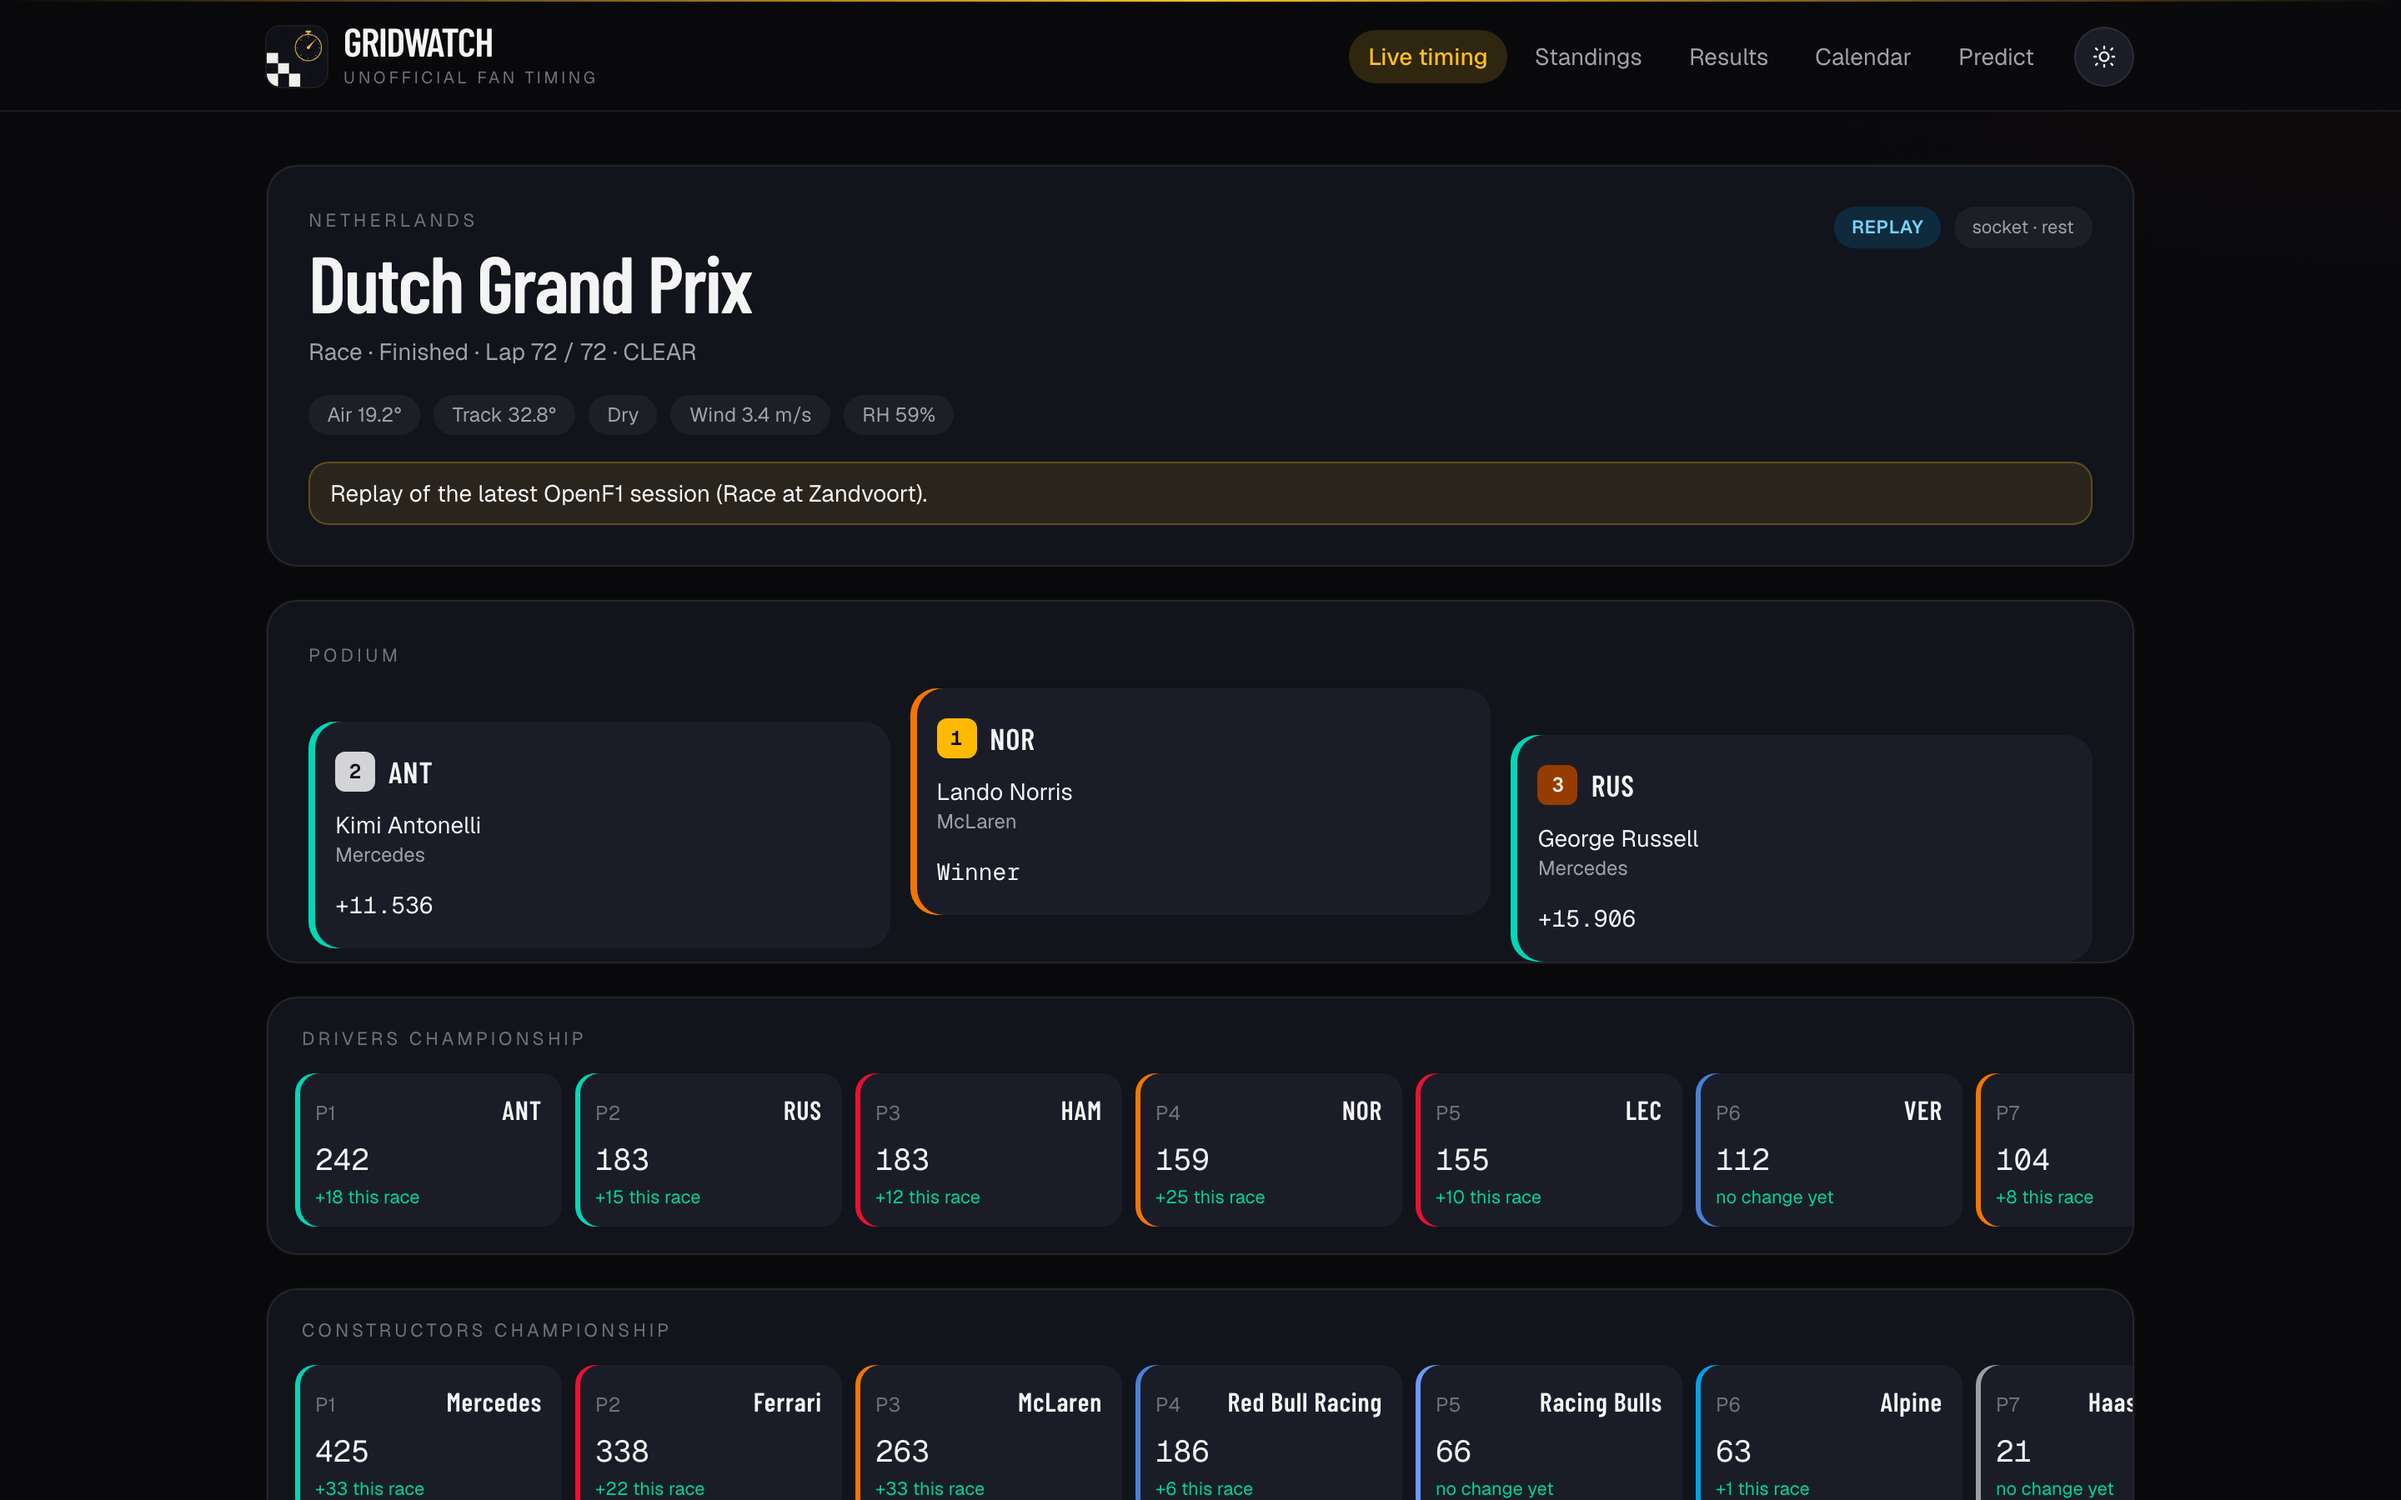
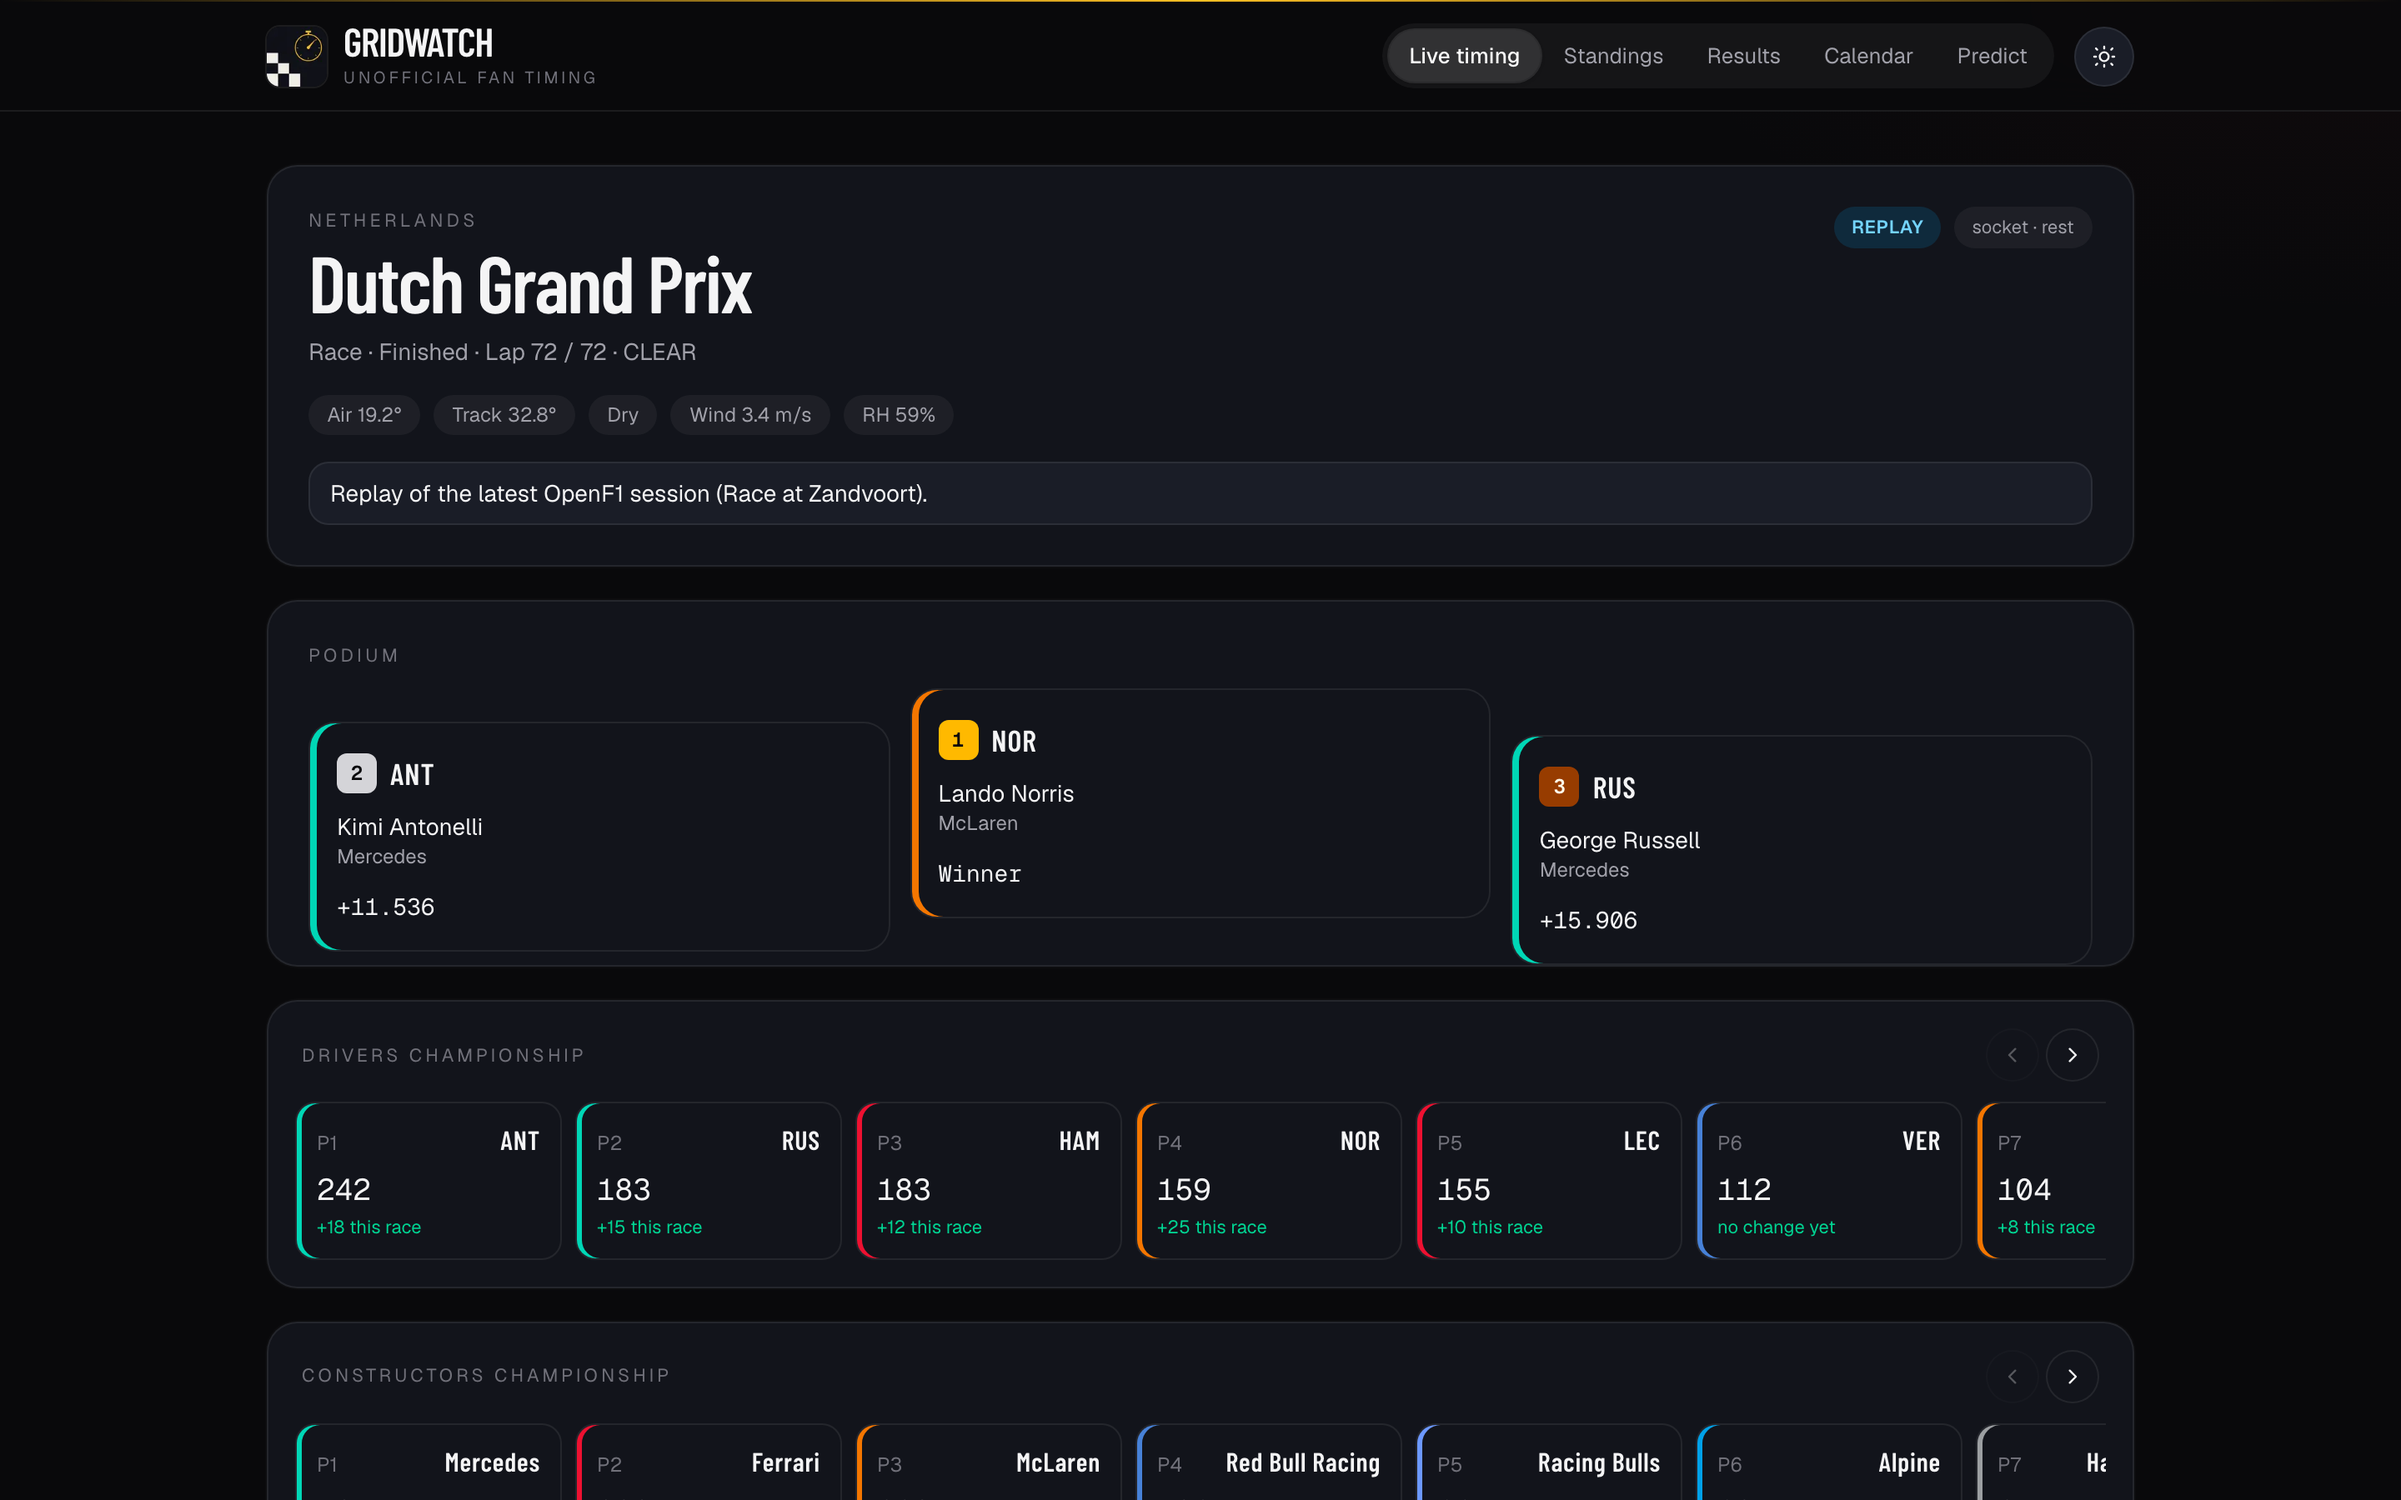
Modernize page tabs and make championship rows scroll with arrows.

diff --git a/src/components/TimingBoard.tsx b/src/components/TimingBoard.tsx
@@ -1,6 +1,6 @@
 "use client";
 
-import { useEffect, useMemo, useState } from "react";
+import { useCallback, useEffect, useMemo, useRef, useState } from "react";
 import {
   formatGap,
   formatLapTime,
@@ -427,16 +427,66 @@ function ChampionshipStrip({
     color: string;
   }[];
 }) {
+  const scroller = useRef<HTMLDivElement>(null);
+  const [canBack, setCanBack] = useState(false);
+  const [canFwd, setCanFwd] = useState(false);
+
+  const update = useCallback(() => {
+    const el = scroller.current;
+    if (!el) return;
+    setCanBack(el.scrollLeft > 4);
+    setCanFwd(el.scrollLeft + el.clientWidth < el.scrollWidth - 4);
+  }, []);
+
+  useEffect(() => {
+    const el = scroller.current;
+    if (!el) return;
+    update();
+    el.addEventListener("scroll", update, { passive: true });
+    const ro = new ResizeObserver(update);
+    ro.observe(el);
+    return () => {
+      el.removeEventListener("scroll", update);
+      ro.disconnect();
+    };
+  }, [update, items.length]);
+
+  const move = (dir: -1 | 1) => {
+    const el = scroller.current;
+    if (!el) return;
+    el.scrollBy({
+      left: dir * Math.round(el.clientWidth * 0.75),
+      behavior: "smooth",
+    });
+  };
+
   return (
-    <section className="panel overflow-x-auto p-4">
-      <p className="mb-3 px-1 text-[11px] uppercase tracking-[0.18em] text-subtle">
-        {title}
-      </p>
-      <div className="flex min-w-max gap-2">
-        {items.slice(0, 8).map((row) => (
+    <section className="panel p-4">
+      <div className="mb-3 flex items-center justify-between gap-3 px-1">
+        <p className="text-[11px] uppercase tracking-[0.18em] text-subtle">
+          {title}
+        </p>
+        <div className="flex shrink-0 gap-1">
+          <ScrollArrow
+            dir="back"
+            disabled={!canBack}
+            onClick={() => move(-1)}
+          />
+          <ScrollArrow
+            dir="fwd"
+            disabled={!canFwd}
+            onClick={() => move(1)}
+          />
+        </div>
+      </div>
+      <div
+        ref={scroller}
+        className="flex gap-2 overflow-x-auto scroll-smooth [-ms-overflow-style:none] [scrollbar-width:none] [&::-webkit-scrollbar]:hidden"
+      >
+        {items.map((row) => (
           <div
             key={row.key}
-            className="w-40 rounded-xl border border-border bg-surface px-3 py-2.5"
+            className="w-40 shrink-0 rounded-xl border border-border bg-surface px-3 py-2.5"
             style={{ boxShadow: `inset 3px 0 0 ${teamSwatch(row.color)}` }}
           >
             <div className="flex items-baseline justify-between gap-2">
@@ -455,5 +505,33 @@ function ChampionshipStrip({
         ))}
       </div>
     </section>
+  );
+}
+
+function ScrollArrow({
+  dir,
+  disabled,
+  onClick,
+}: {
+  dir: "back" | "fwd";
+  disabled: boolean;
+  onClick: () => void;
+}) {
+  return (
+    <button
+      type="button"
+      onClick={onClick}
+      disabled={disabled}
+      aria-label={dir === "back" ? "Scroll back" : "Scroll forward"}
+      className="inline-flex h-8 w-8 items-center justify-center rounded-full border border-border bg-surface text-foreground transition hover:border-accent/40 hover:text-accent disabled:pointer-events-none disabled:opacity-30"
+    >
+      <svg viewBox="0 0 24 24" aria-hidden className="h-4 w-4" fill="none" stroke="currentColor" strokeWidth="1.8">
+        {dir === "back" ? (
+          <path strokeLinecap="round" strokeLinejoin="round" d="M14.5 6.5 9 12l5.5 5.5" />
+        ) : (
+          <path strokeLinecap="round" strokeLinejoin="round" d="M9.5 6.5 15 12l-5.5 5.5" />
+        )}
+      </svg>
+    </button>
   );
 }

diff --git a/src/components/SiteHeader.tsx b/src/components/SiteHeader.tsx
@@ -23,23 +23,27 @@ export function SiteHeader() {
         <Link href="/" className="min-w-0">
           <BrandLockup priority />
         </Link>
-        <nav className="order-last flex w-full min-w-0 items-center gap-1 overflow-x-auto text-sm sm:order-none sm:ml-auto sm:w-auto [-ms-overflow-style:none] [scrollbar-width:none] [&::-webkit-scrollbar]:hidden">
-          {links.map((link) => {
-            const active =
-              pathname === link.href ||
-              (link.href !== "/" && pathname.startsWith(link.href));
-            return (
-              <Link
-                key={link.href}
-                href={link.href}
-                className={`shrink-0 rounded-full px-3 py-1.5 transition ${
-                  active ? "nav-active" : "text-muted hover:bg-chip hover:text-foreground"
-                }`}
-              >
-                {link.label}
-              </Link>
-            );
-          })}
+        <nav className="order-last w-full min-w-0 sm:order-none sm:ml-auto sm:w-auto">
+          <div className="flex min-w-0 items-center gap-0.5 overflow-x-auto rounded-full bg-chip p-1 [-ms-overflow-style:none] [scrollbar-width:none] [&::-webkit-scrollbar]:hidden">
+            {links.map((link) => {
+              const active =
+                pathname === link.href ||
+                (link.href !== "/" && pathname.startsWith(link.href));
+              return (
+                <Link
+                  key={link.href}
+                  href={link.href}
+                  className={`shrink-0 rounded-full px-3 py-1.5 text-[13px] transition ${
+                    active
+                      ? "bg-white font-medium text-zinc-950 shadow-sm ring-1 ring-black/10 dark:bg-white/12 dark:text-zinc-50 dark:ring-white/10"
+                      : "text-muted hover:text-foreground"
+                  }`}
+                >
+                  {link.label}
+                </Link>
+              );
+            })}
+          </div>
         </nav>
         <div className="ml-auto sm:ml-0">
           <ThemeToggle />

diff --git a/src/app/globals.css b/src/app/globals.css
@@ -97,17 +97,6 @@ body {
   color: var(--muted);
 }
 
-.nav-active {
-  background: color-mix(in srgb, var(--accent) 16%, transparent);
-  color: var(--accent);
-  font-weight: 500;
-}
-
-[data-theme="light"] .nav-active {
-  background: #09090b;
-  color: #ffffff;
-}
-
 .tyre {
   display: inline-flex;
   height: 1.5rem;
